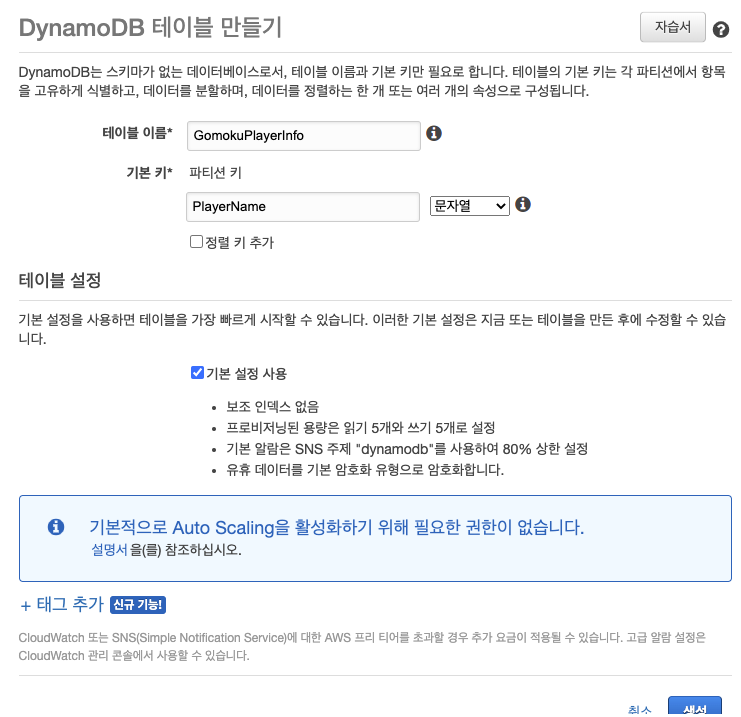
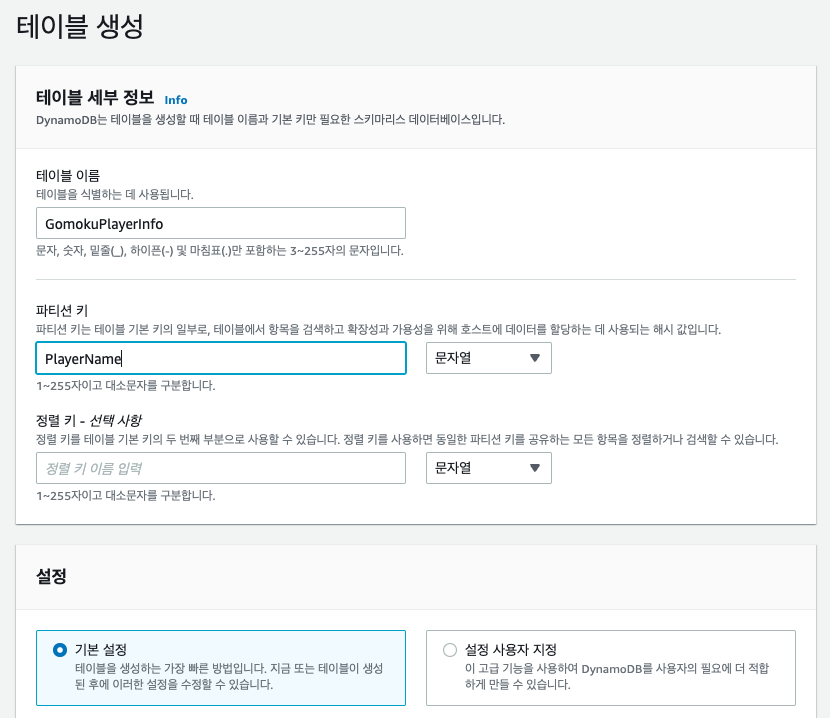
lab11_ko update

diff --git a/hugo/content/awsservice/lab11/_index.ko.md b/hugo/content/awsservice/lab11/_index.ko.md
@@ -19,29 +19,29 @@ pre: "<b>1-1. </b>"
 1. AWS 콘솔에 로그인하고 DynamoDB 페이지로 이동합니다.
 https://console.aws.amazon.com/dynamodb
 2. 리전을 확인합니다. 랩을 진행하면서 모든 서비스 요소들을 하나의 리전에서 생성하셔야 합니다.
-3. 콘솔에서 Create Table 을 클릭하여 DynamoDB 테이블 생성을 시작합니다.
+3. 콘솔에서 테이블 생성 버튼을 클릭하여 DynamoDB 테이블 생성을 시작합니다.
 
 ![DDB](../../images/awsservice/lab11/DDB_Create.png)
 
-4. Table name은 “GomokuPlayerInfo” 로 설정하고, Primary Key는 “PlayerName” 으로 하고 데이터 타입은 String을 선택합니다. 그리고 나서 Create 버튼을 클릭합니다
+4. Table name은 “GomokuPlayerInfo” 로 설정하고, Primary Key는 “PlayerName” 으로 하고 데이터 타입은 String을 선택합니다. 그리고 나서 테이블 생성 버튼을 클릭합니다
 
-5. 테이블이 생성된 뒤에는 Stream을 활성화 합니다. 기본적으로 stream은 비활성화 되어 있습니다. Manage Stream 버튼을 클릭합니다.
+5. 테이블이 생성된 뒤에는 Stream을 활성화 합니다. 기본적으로 stream은 비활성화 되어 있습니다. 내보내기 및 스트림 탭을 클릭한 후, DynamoDB 스트림 세부 정보에서 활성화 버튼을 클릭합니다.
 
 ![DDB_Stream](../../images/awsservice/lab11/DDB_Stream.png)
 
-6. New and old images 를 선택하고 Enable버튼을 클릭합니다.
+6. 새 이미지와 이전 이미지 를 선택하고 Enable버튼을 클릭합니다.
 
 ![DDB_Stream_Image](../../images/awsservice/lab11/DDB_Stream_Image.png)
 
-7. 기본적인 작업은 끝났습니다. 이제 테스트 데이터 샘플을 만들어 줍니다. 테이블에서 Items 탭을 선택합니다
+7. 기본적인 작업은 끝났습니다. 이제 테스트 데이터 샘플을 만들어 줍니다.  오른쪽 상단의 표 항목 탐색을 선택 합니다.
 
-8. Create Item 을 클릭하여 새로운 항목을 만들어줍니다.
+8. 항목 생성 을 클릭하여 새로운 항목을 만들어줍니다.
 
 ![DDB_Item](../../images/awsservice/lab11/DDB_Item.png)
 
-9. 편집기에서 + 버튼을 클릭하고, Append를 선택하여 추가합니다.
+9. 편집기에서 새 속성 추가 버튼을 클릭하고, 속성을 추가합니다.
 
-10. 다음 스크린 캡처와 같아질 때까지 데이터를 계속 추가해줍니다. 그리고 Save 버튼을 클릭하여 저장합니다. (데이터 타입에 주의해주세요)
+10. 다음 스크린 캡처와 같아질 때까지 데이터를 계속 추가해줍니다. 그리고 항목 생성 버튼을 클릭하여 저장합니다. (데이터 타입에 주의해주세요)
 
 ![DDB_Item_Sample](../../images/awsservice/lab11/DDB_Item_Sample.png)
 

diff --git a/hugo/content/awsservice/lab11/_index.en.md b/hugo/content/awsservice/lab11/_index.en.md
@@ -36,13 +36,13 @@ First things first, let's make DynamoDB first.
 
 ![DDB_Item](../../images/awsservice/lab11/DDB_Item[en].png)
 
-9. Click + button on the editor, and append item.
+9. Click Create Item button on the editor, and append item.
 
 10. Put data on your new item same as below. Click "Create Item" to store Item. (Check the data type)
 
-![DDB_Item_Sample](../../images/awsservice/lab11/DDB_Item_Sample.png)
+![DDB_Item_Sample](../../images/awsservice/lab11/DDB_Item_Sample[en].png)
 
-* You can find this Item on the table, when you search items from this table.
+* You can find this Item on the table, when you select table GomokuPlayerInfo and click run on Scan/Query items search items from this table.
 
 Ok. This is Basic settings of DynamoDB. Nextly we are making ElastiCache.
 
